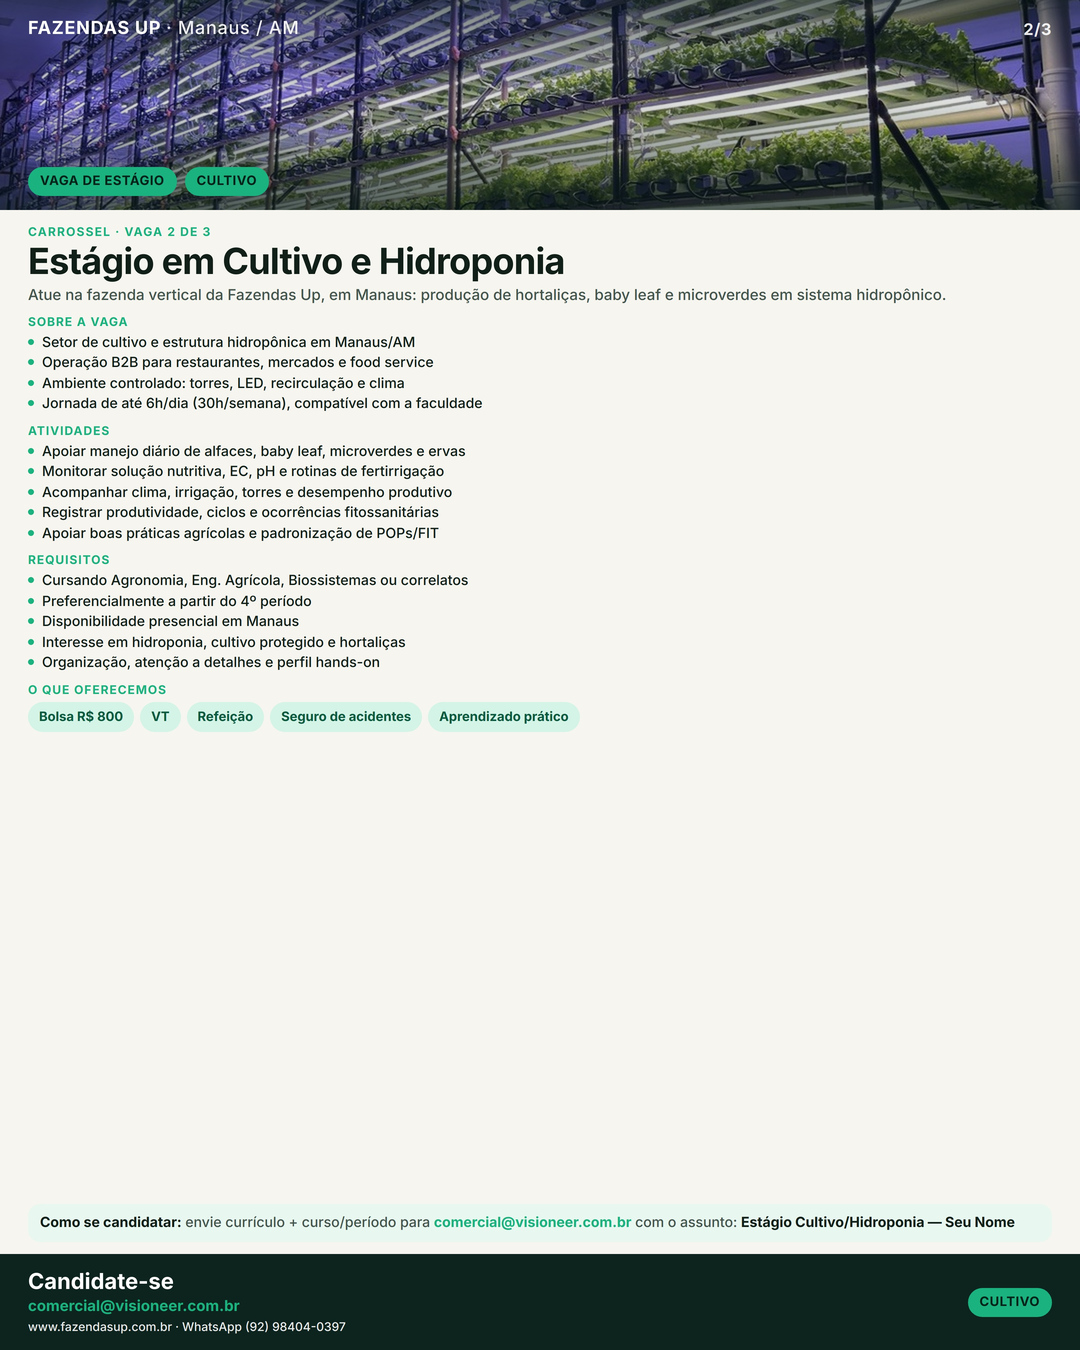
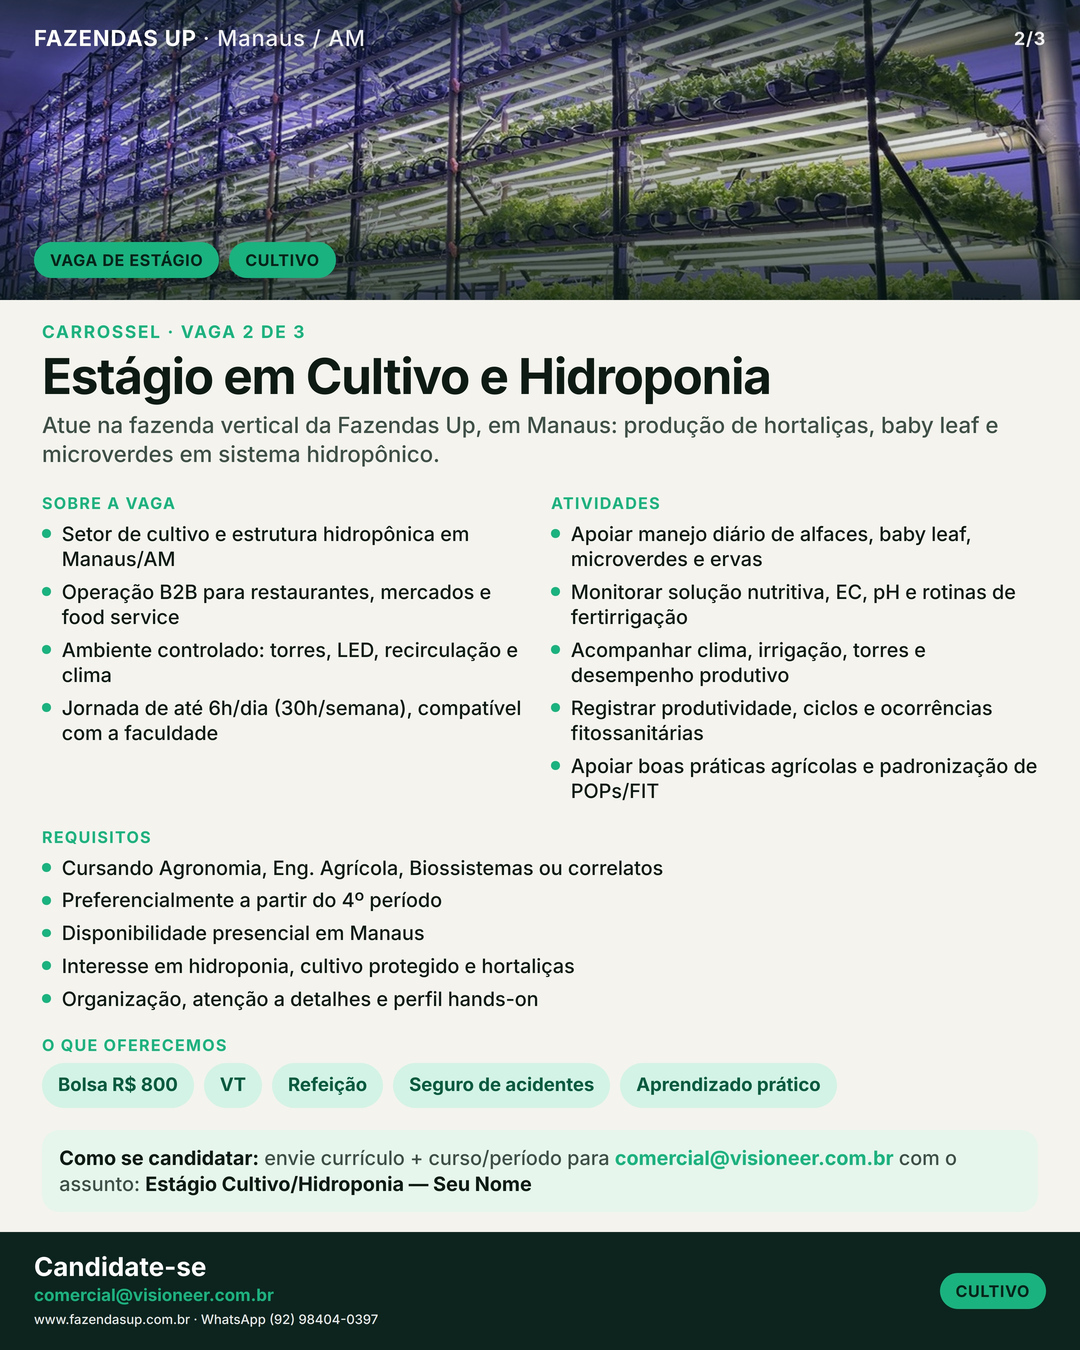
fix: preencher o 4:5 do feed com tipografia auto-ajustada
Escala fontes/gaps até ocupar o quadro sem vão em branco e sem
overflow, mantendo o texto completo das 3 vagas.

diff --git a/client/public/instagram-estagios/index.html b/client/public/instagram-estagios/index.html
@@ -21,22 +21,22 @@
 </head>
 <body>
   <h1>Carrossel Instagram — 3 vagas</h1>
-  <p class="sub">Um único post com 3 slides (1080×1350). Ordem: Admin → Cultivo → Qualidade.</p>
+  <p class="sub">Feed 4:5 (1080×1350). Um post, 3 slides. Ordem: Admin → Cultivo → Qualidade.</p>
   <div class="tip">
-    Atualizado agora. Se ainda ver a versão antiga, feche a aba e abra este link de novo.<br/>
-    Salve as 3 imagens nesta ordem e publique como <b>um carrossel</b> no feed.
+    Versão nova (mwtifmf8). Feche a aba antiga e abra este link de novo.<br/>
+    Salve as 3 imagens e publique como <b>um carrossel</b> no feed.
   </div>
   <div class="grid">
-    <a class="card" href="01-admin.jpg?v=mwtgp5nn" download="01-admin.jpg">
-      <img src="01-admin.jpg?v=mwtgp5nn" alt="Estágio em Administração" loading="lazy" />
+    <a class="card" href="01-admin.jpg?v=mwtifmf8" download="01-admin.jpg">
+      <img src="01-admin.jpg?v=mwtifmf8" alt="Estágio em Administração" loading="lazy" />
       <div class="meta">01/03 · ADMIN<small>Estágio em Administração — Salvar</small></div>
     </a>
-    <a class="card" href="02-cultivo.jpg?v=mwtgp5nn" download="02-cultivo.jpg">
-      <img src="02-cultivo.jpg?v=mwtgp5nn" alt="Estágio em Cultivo e Hidroponia" loading="lazy" />
+    <a class="card" href="02-cultivo.jpg?v=mwtifmf8" download="02-cultivo.jpg">
+      <img src="02-cultivo.jpg?v=mwtifmf8" alt="Estágio em Cultivo e Hidroponia" loading="lazy" />
       <div class="meta">02/03 · CULTIVO<small>Estágio em Cultivo e Hidroponia — Salvar</small></div>
     </a>
-    <a class="card" href="03-qualidade.jpg?v=mwtgp5nn" download="03-qualidade.jpg">
-      <img src="03-qualidade.jpg?v=mwtgp5nn" alt="Estágio em Processamento e Qualidade" loading="lazy" />
+    <a class="card" href="03-qualidade.jpg?v=mwtifmf8" download="03-qualidade.jpg">
+      <img src="03-qualidade.jpg?v=mwtifmf8" alt="Estágio em Processamento e Qualidade" loading="lazy" />
       <div class="meta">03/03 · QUALIDADE<small>Estágio em Processamento e Qualidade — Salvar</small></div>
     </a></div>
 </body>

diff --git a/marketing/instagram-estagios/README.md b/marketing/instagram-estagios/README.md
@@ -1,6 +1,6 @@
 # Carrossel Instagram — Vagas de Estágio
 
-Um post, 3 slides (1080×1350), texto completo das artes originais.
+Feed **4:5 (1080×1350)**. Um post, 3 slides, texto completo, tipografia auto-ajustada para preencher o quadro.
 
 1. `01-admin.jpg`
 2. `02-cultivo.jpg`
